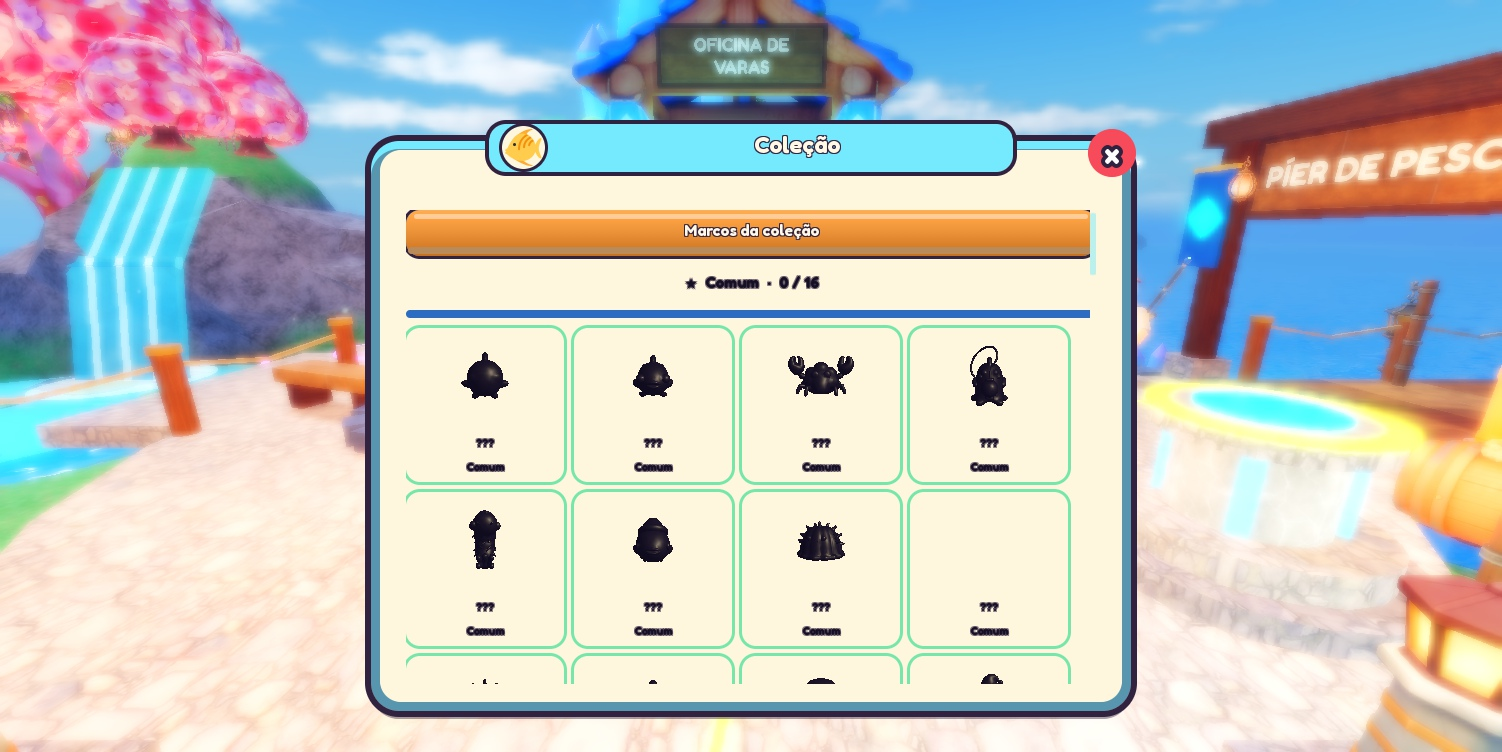
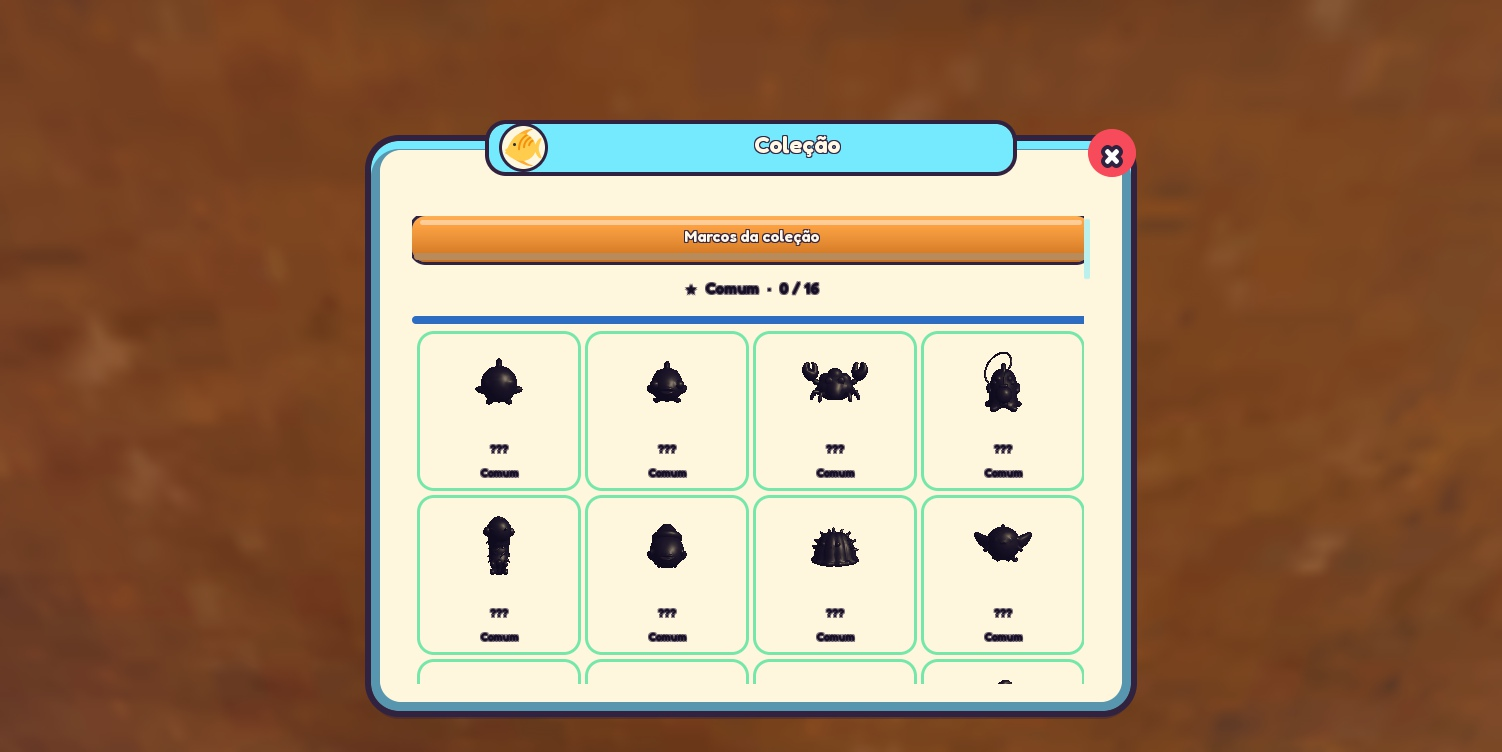
fix(ui): center collection grid, smaller tutorial card, panel margins

diff --git a/docs/COORDENACAO.md b/docs/COORDENACAO.md
@@ -396,3 +396,5 @@ Formato: `- [AAAA-MM-DD HH:MM] Agente: mensagem`
   - Todas as 10 com partes filhas diretas do Model, `PrimaryPart=Body`, `Anchored=true`, `CanCollide/CanQuery/CanTouch=false`, 0 scripts/Motor6D/RootPart/tags, originais `<id>_static` em `ServerStorage.CreaturePrototypes`, `PreloadAsync` 0 falhas nas 4 novas e visual conferido via `screen_capture` em Edit (sem teste em Play). Não mexi em `C35`–`C64`, `src/`, ilha ou varas.
 - [2026-11-17 23:18] Codex: QA PC do Reveal Legendary concluído; o card estava cortando o rodapé no viewport e foi movido 40 px para cima em Reveal.luau (-16 → -56), com sync Rojo confirmado e card completo em art/screens/ui-v3/reveal-legendary-pc.jpg. No print, card fica abaixo da área central. iPhone retrato/paisagem já conferidos nos prints existentes. Os 15 IDs de imagem da HUD preloaderam com Success; os novos warnings são TextureID de malhas de criaturas (C26: 123426101306885/85147997694051/120065806564563; C46: 75437784857584/123797226754809; C59: 94501050981136), não ícones/botões; não trocar pelos IDs de ASSET_IDS. NextGoal aparece no PC; Treino/Eventos ainda sem captura dinâmica. Nota para Claude: init.luau segue chamando FishingCamera.stop() em Legendary, então a captura PC dessa raridade ficou com o card sobre o mar; não alterei Camera/init.
 - [2026-11-17 23:34] Codex: UI candy v3 concluída nesta rodada: carta Reveal ajustada e commitada (`aaddcb8`), com área central livre para o peixe; Eventos reposicionado à esquerda para não conflitar com o presente diário. QA dinâmico no Play PC e simulador iPhone 17 Pro em paisagem/retrato: Treino e banner de Evento legíveis/separados, NextGoal legível; capturas em `art/screens/ui-v3/{training,events,nextgoal}-{pc,iphone-landscape,iphone-portrait}.jpg` (NextGoal PC e telas de Treino/Eventos PC incluídas). HUD: moedas, nível, vara, botão Mais e presente renderizam; os 15 IDs do `ASSET_IDS.md` preloaderam com Success. Warnings `No asset content representation found` mapeados para TextureIDs de malhas C26/C46/C59, não para ícones/botões; sem troca de ID. Stylua, Rojo sourcemap e `git diff --check` passaram; Selene não coletou Roblox API dump e `luau-lsp` não está instalado. Simulator restaurado ao default, Play encerrado, place não salvo; `Camera.luau`/`Fishing/init.luau` e minigames intocados. Nota para Claude: init da pesca ainda chama `FishingCamera.stop()` na raridade Legendary, conforme revisão do source; não alterei os arquivos do sistema.
+- [2026-11-17 23:36] Codex: Checagem extra de HUD limpa em andamento: capturas existentes mostram Evento durante Treino (NextGoal escondido); vou validar Evento + NextGoal juntos em idle no PC e iPhone para confirmar que não se empilham.
+- [2026-11-17 23:58] Claude: **Assumi a UI (Codex parado a pedido do Joao).** Causa do "esticado": arte forcada em proporcao errada (menu, Proxima meta, medalhao de raridade). Corrigido: grade 2x2 quadrada do menu, Proxima meta/moedas/presente com proporcao da imagem, paineis com conteudo dentro das bordas, Oficina e Colecao reajustadas, tutorial menor. Prints em art/screens/ui-v4/. Studio liberado (lock removido, Edit). Antigravity: pode usar o Studio.
